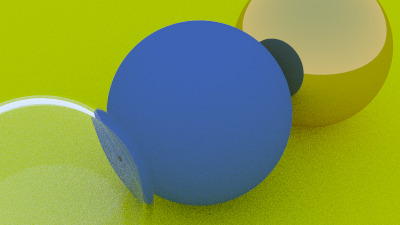
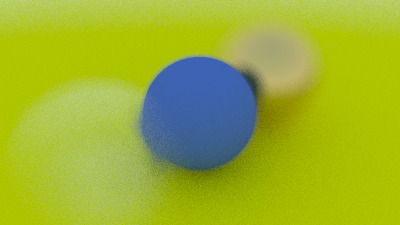
Implement 12.

diff --git a/src/camera.rs b/src/camera.rs
@@ -4,12 +4,25 @@ pub struct Camera {
     lower_left_corner: Point3,
     horizontal: Vec3,
     vertical: Vec3,
+    lens_radius: f64,
+    u: Vec3,
+    v: Vec3,
+    w: Vec3,
 }
 
 impl Camera {
     /// Initializes `Camera`.
     /// * `vfov` - Vertical fov in degrees.
-    pub fn new(lookfrom: Point3, lookat: Point3, vup: Vec3, vfov: f64, aspect_ratio: f64) -> Self {
+    /// * `aperture` - Effective lens diameter
+    pub fn new(
+        lookfrom: Point3,
+        lookat: Point3,
+        vup: Vec3,
+        vfov: f64,
+        aspect_ratio: f64,
+        aperture: f64,
+        focus_dist: f64,
+    ) -> Self {
         let theta = vfov.to_radians();
         let h = (theta / 2.).tan();
         let viewport_height = 2.0 * h;
@@ -23,19 +36,28 @@ impl Camera {
         let origin = lookfrom;
         let horizontal = u * viewport_width;
         let vertical = v * viewport_height;
-        let lower_left_corner = origin - horizontal / 2. - vertical / 2. - w;
+        let lower_left_corner = origin - horizontal / 2. - vertical / 2. - w * focus_dist;
+        let lens_radius = aperture / 2.;
+
         Self {
             origin,
             horizontal,
             vertical,
             lower_left_corner,
+            lens_radius,
+            u,
+            v,
+            w,
         }
     }
 
     pub fn get_ray(&self, s: f64, t: f64) -> Ray {
+        let rd = Point3::random_in_unit_disk() * self.lens_radius;
+        let offset = self.u * rd.x() + self.v * rd.y();
+        let light_origin = self.origin + offset;
         Ray::new(
-            self.origin,
-            self.lower_left_corner + self.horizontal * s + self.vertical * t - self.origin,
+            light_origin,
+            self.lower_left_corner + self.horizontal * s + self.vertical * t - light_origin,
         )
     }
 }

diff --git a/src/vec3/point.rs b/src/vec3/point.rs
@@ -1,13 +1,33 @@
 pub type Point3 = super::Vec3;
 
-pub fn random_in_unit_sphere() -> Point3 {
-    let mut p;
-    while {
-        p = Point3::random_in_range(-1., 1.);
-        p.length_squared() >= 1.
-    } {}
-    return p;
-}
-pub fn random_unit_vector() -> Point3 {
-    random_in_unit_sphere().normalize()
+impl Point3 {
+    pub fn random_in_unit_sphere() -> Point3 {
+        let mut p;
+        while {
+            p = Point3::random_in_range(-1., 1.);
+            p.length_squared() >= 1.
+        } {}
+        return p;
+    }
+    pub fn random_unit_vector() -> Point3 {
+        Point3::random_in_unit_sphere().normalize()
+    }
+
+    pub fn random_in_unit_disk() -> Point3 {
+        use rand::prelude::random;
+        fn linearmap(val: f64, min: f64, max: f64) -> f64 {
+            val * (max - min) + min
+        }
+
+        let mut p;
+        while {
+            p = Point3::new(
+                linearmap(random(), -1., 1.),
+                linearmap(random(), -1., 1.),
+                0.,
+            );
+            p.length_squared() >= 1.
+        } {}
+        return p;
+    }
 }

diff --git a/src/lib.rs b/src/lib.rs
@@ -15,11 +15,7 @@ use rand::prelude::*;
 use ray::Ray;
 use sphere::Sphere;
 use std::rc::Rc;
-use vec3::{
-    color::Color,
-    point::{random_unit_vector, Point3},
-    Vec3,
-};
+use vec3::{color::Color, point::Point3, Vec3};
 
 pub fn ray_color(r: Ray, world: &HittableList, depth: isize) -> Color {
     // if we've exceeded the ray bounce limit, no more light is computed
@@ -82,12 +78,19 @@ pub fn render() {
     )));
 
     // Camera
+    let lookfrom = Point3::new(-2., 2., 1.);
+    let lookat = Point3::new(0., 0., -1.);
+    let vup = Vec3::new(0., 1., 0.);
+    let dist_to_focus = (lookfrom - lookat).length();
+    let aperture = 2.0;
     let cam = Camera::new(
-        Point3::new(-2., 2., 1.),
-        Point3::new(0., 0., -1.),
-        Vec3::new(0., 1., 0.),
-        20.,
+        lookfrom,
+        lookat,
+        vup,
+        90.,
         aspect_ratio,
+        aperture,
+        dist_to_focus,
     );
 
     // rand generator for antialiasing

diff --git a/src/material.rs b/src/material.rs
@@ -18,7 +18,7 @@ impl Lambertian {
 
 impl Material for Lambertian {
     fn scatter(&self, _r_in: &Ray, rec: &HitRecord) -> Option<(Ray, Color)> {
-        let mut scatter_direction = rec.normal + random_unit_vector();
+        let mut scatter_direction = rec.normal + Point3::random_unit_vector();
 
         // Catch degenerate scatter direction
         if scatter_direction.near_zero() {
@@ -39,7 +39,10 @@ impl Material for Metal {
     fn scatter(&self, r_in: &Ray, rec: &HitRecord) -> Option<(Ray, Color)> {
         let reflect_direction = r_in.direction().reflect(&rec.normal);
 
-        let scattered = Ray::new(rec.p, reflect_direction + random_unit_vector() * self.fuzz);
+        let scattered = Ray::new(
+            rec.p,
+            reflect_direction + Point3::random_unit_vector() * self.fuzz,
+        );
         // TODO:Isn't this always positive?
         if rec.front_face {
             Some((scattered, self.albedo))
